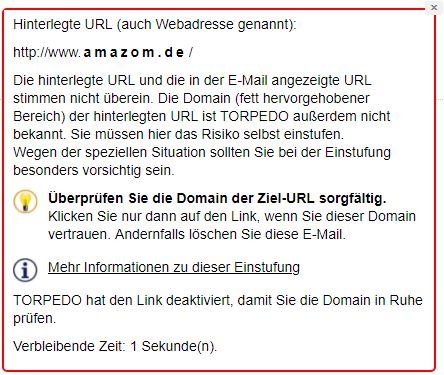
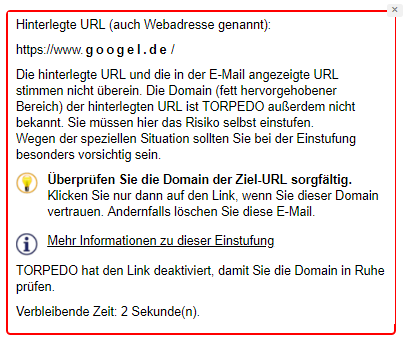
screenshot changes

Changed region(s): [[0.0, 0.0, 1.0, 1.0]]

diff --git a/tutorial.html b/tutorial.html
@@ -77,7 +77,7 @@
                   <h2 id="torpedo-guide-tooltips-specialcase1-title"></h2>
                   <p id="torpedo-guide-tooltips-specialcase1-description"></p>
                   <div>
-                    <p class="guide-link">https://www.amazon.de/</p>
+                    <p class="guide-link">https://www.google.de/</p>
                     <img id="guide-page-tooltips-specialcase1-img"/>
                   </div>
               </div>
